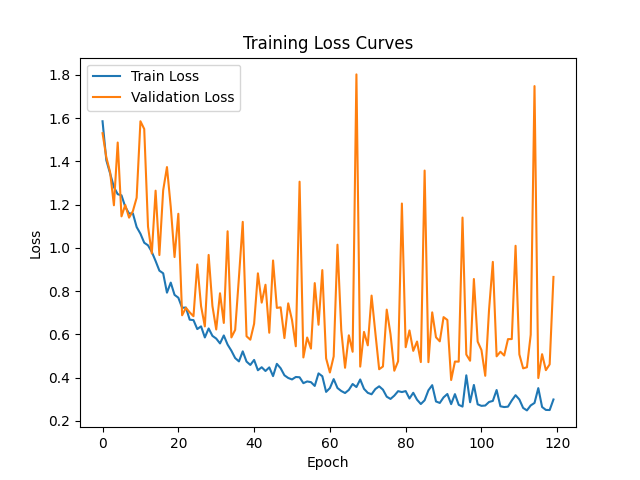
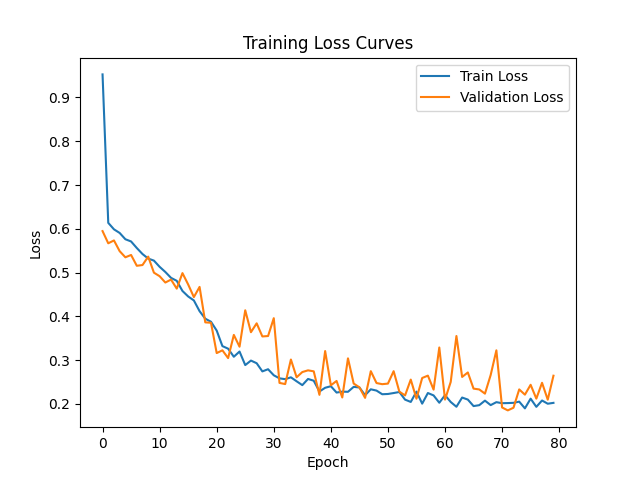
updated report, moved cutout, remove emoj

diff --git a/project/src/unet/train_colab.py b/project/src/unet/train_colab.py
@@ -164,10 +164,10 @@ def train(params):
 
     # 4. Load weights (optional)
     if params.pretrained_weights and os.path.exists(params.pretrained_weights):
-        print(f"🔄 Loading pre-trained weights from {params.pretrained_weights} - current epoch {params.previous_epochs}")
+        print(f" Loading pre-trained weights from {params.pretrained_weights} - current epoch {params.previous_epochs}")
         model.load_state_dict(torch.load(params.pretrained_weights, map_location=device))
     else:
-        print("🚨 No pre-trained weights loaded.")
+        print(" No pre-trained weights loaded.")
 
 
     model.to(device)
@@ -183,7 +183,7 @@ def train(params):
     best_model_path = f"{params.model_path}_best.pt"
 
     for epoch in range(params.epoch_number):
-        print(f"\n🔁 Epoch {epoch+1}/{params.epoch_number}")
+        print(f"\n Epoch {epoch+1}/{params.epoch_number}")
         epoch_loss = 0
         model.train()
 
@@ -214,7 +214,7 @@ def train(params):
         val_avg_loss = validate(model, val_loader, ce_loss, dice_loss, device)
         loss_history.append(avg_loss)
         val_loss_history.append(val_avg_loss)
-        print(f"✅ Epoch {epoch+1} | Train Loss: {avg_loss:.4f} | Val Loss: {val_avg_loss:.4f}")
+        print(f" Epoch {epoch+1} | Train Loss: {avg_loss:.4f} | Val Loss: {val_avg_loss:.4f}")
 
         # Save model at intervals
         if (epoch + 1) % params.saving_interval == 0:
@@ -222,7 +222,7 @@ def train(params):
         if val_avg_loss < best_val_loss:
             best_val_loss = val_avg_loss
             torch.save(model.state_dict(), best_model_path)
-            print(f"💾 Best model saved with val loss {val_avg_loss:.4f}")
+            print(f" Best model saved with val loss {val_avg_loss:.4f}")
 
 
     # Final model save
@@ -237,7 +237,7 @@ def train(params):
     plt.legend(["Train Loss", "Validation Loss"])
     plt.title("Training Loss Curves")
     plt.savefig(f"{params.model_folder}/loss_curve.png")
-    print("📉 Loss curve saved as loss_curve.png")
+    print("Loss curve saved as loss_curve.png")
 
     return
 

diff --git a/project/src/unet/data/data_format.py b/project/src/unet/data/data_format.py
@@ -49,5 +49,5 @@ with open(f"{voc_root}/ImageSets/Segmentation/train.txt", "w") as f: #train or v
 #     for img_id in image_list:
 #         f.write(img_id + "\n")
 
-print(f"✅ Processed {len(image_list)} train images.") #here change val train or test
-print(f"📝 Created train.txt at: {voc_root}") #here change val train or test
+print(f" Processed {len(image_list)} train images.") #here change val train or test
+print(f" Created train.txt at: {voc_root}") #here change val train or test
